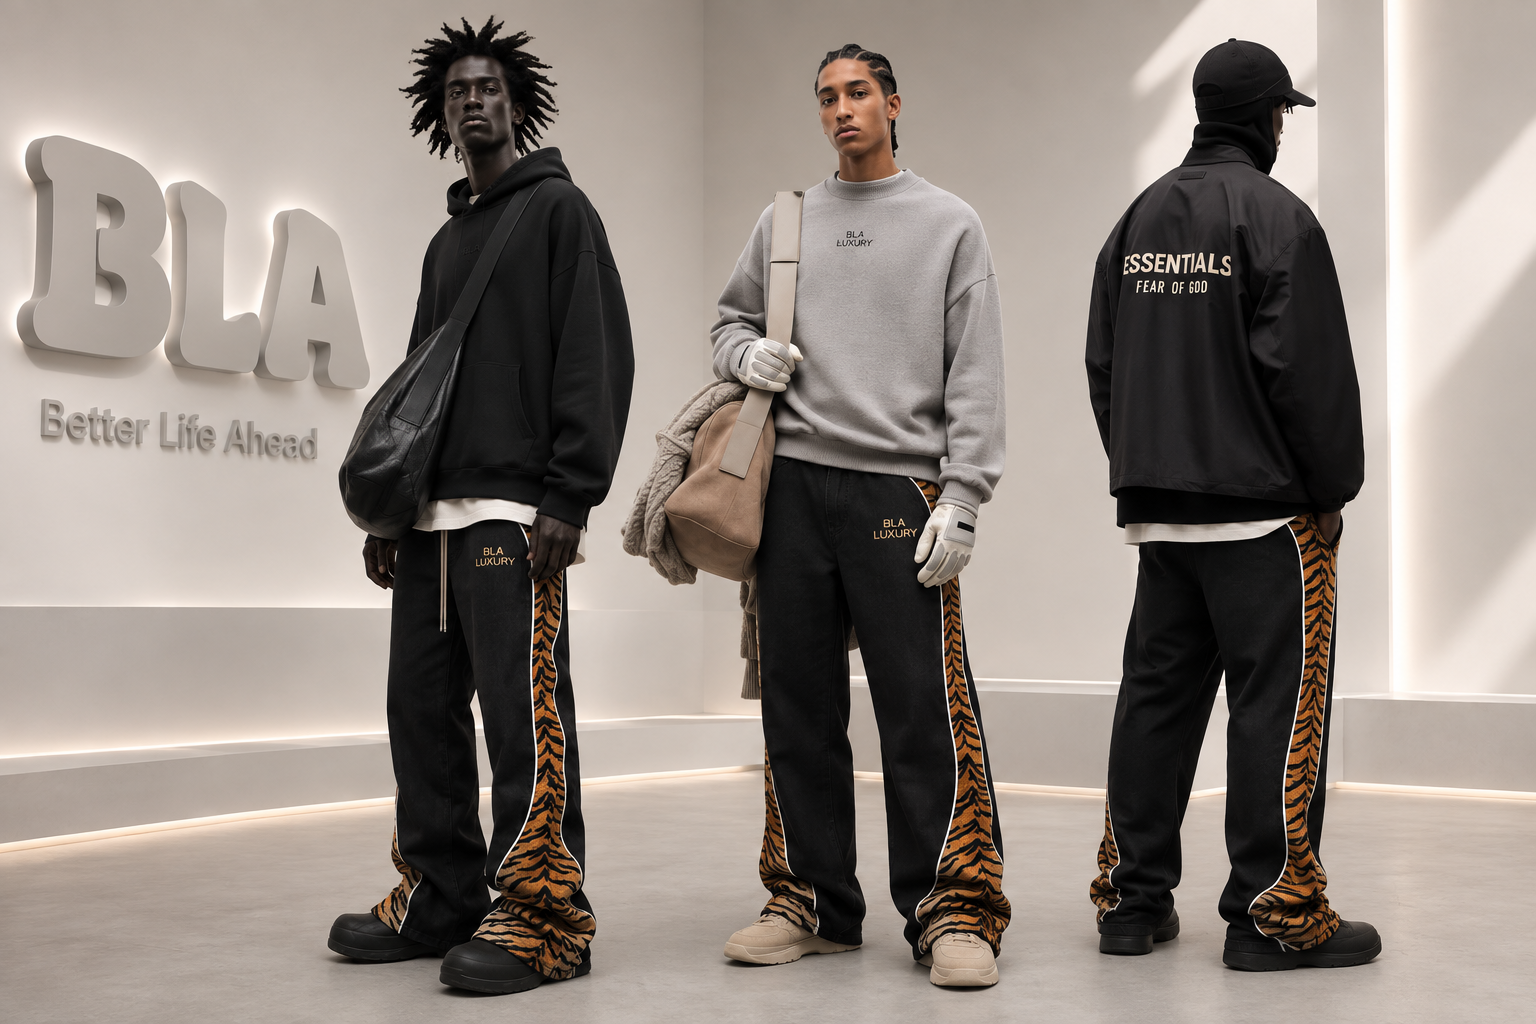
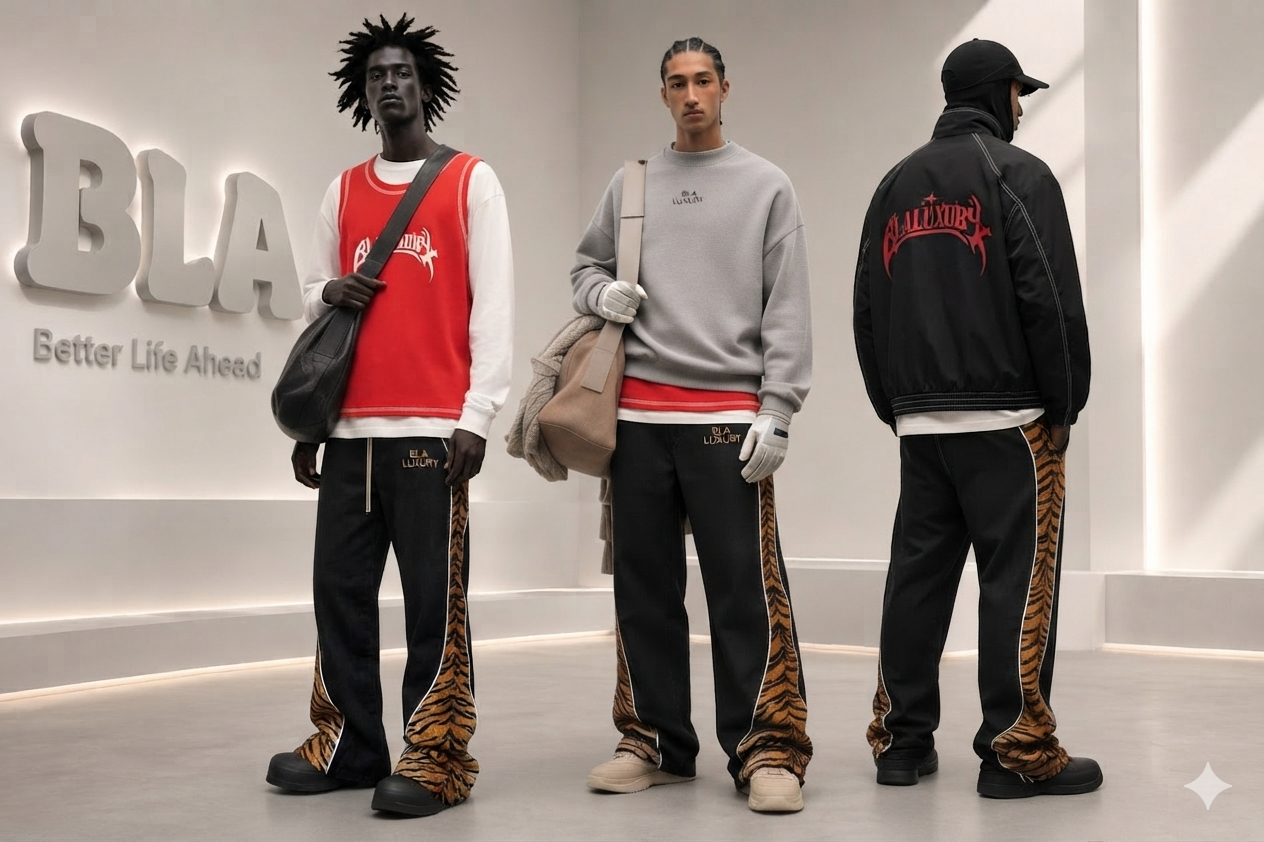
fix(auth): show real validation errors, match backend password rules
- parseError now extracts zod-validator issues and fieldErrors so the
  register form shows actual messages instead of 'Request failed'
- register password schema matches the API: min 8 / max 72 with at least
  one lowercase, uppercase, and number

Changed region(s): [[0.216, 0.0309, 0.8948, 1.0], [0.9256, 0.8955, 0.9873, 0.9572]]

diff --git a/src/services/client.ts b/src/services/client.ts
@@ -34,8 +34,28 @@ async function parseError(response: Response): Promise<ApiError> {
   let code: string | undefined;
   let details: unknown;
   try {
-    const body = (await response.json()) as { message?: string; error?: { code?: string; details?: unknown } };
-    if (body.message) message = body.message;
+    const body = (await response.json()) as {
+      message?: string;
+      error?: {
+        code?: string;
+        details?: unknown;
+        name?: string;
+        issues?: Array<{ message?: string; path?: Array<string | number> }>;
+      };
+    };
+    if (body.message) {
+      message = body.message;
+    } else if (Array.isArray(body.error?.issues) && body.error.issues.length > 0) {
+      // zod-validator failure shape: { success:false, error:{ issues:[{message,path}] } }
+      message = body.error.issues.map((issue) => issue.message).filter(Boolean).join("; ");
+    } else {
+      const fieldErrors = (body.error?.details as { fieldErrors?: Record<string, string[] | undefined> } | undefined)
+        ?.fieldErrors;
+      if (fieldErrors) {
+        const parts = Object.values(fieldErrors).flat().filter(Boolean);
+        if (parts.length > 0) message = parts.join("; ");
+      }
+    }
     code = body.error?.code;
     details = body.error?.details;
   } catch {

diff --git a/src/features/auth/register-form.tsx b/src/features/auth/register-form.tsx
@@ -17,7 +17,13 @@ const schema = z
     firstName: z.string().min(1, "Enter your first name"),
     lastName: z.string().min(1, "Enter your last name"),
     email: z.string().email("Enter a valid email address"),
-    password: z.string().min(8, "Password must be at least 8 characters"),
+    password: z
+      .string()
+      .min(8, "Password must be at least 8 characters")
+      .max(72, "Password must be at most 72 characters")
+      .regex(/[a-z]/, "Password must contain a lowercase letter")
+      .regex(/[A-Z]/, "Password must contain an uppercase letter")
+      .regex(/[0-9]/, "Password must contain a number"),
     confirm: z.string(),
   })
   .refine((data) => data.password === data.confirm, {
